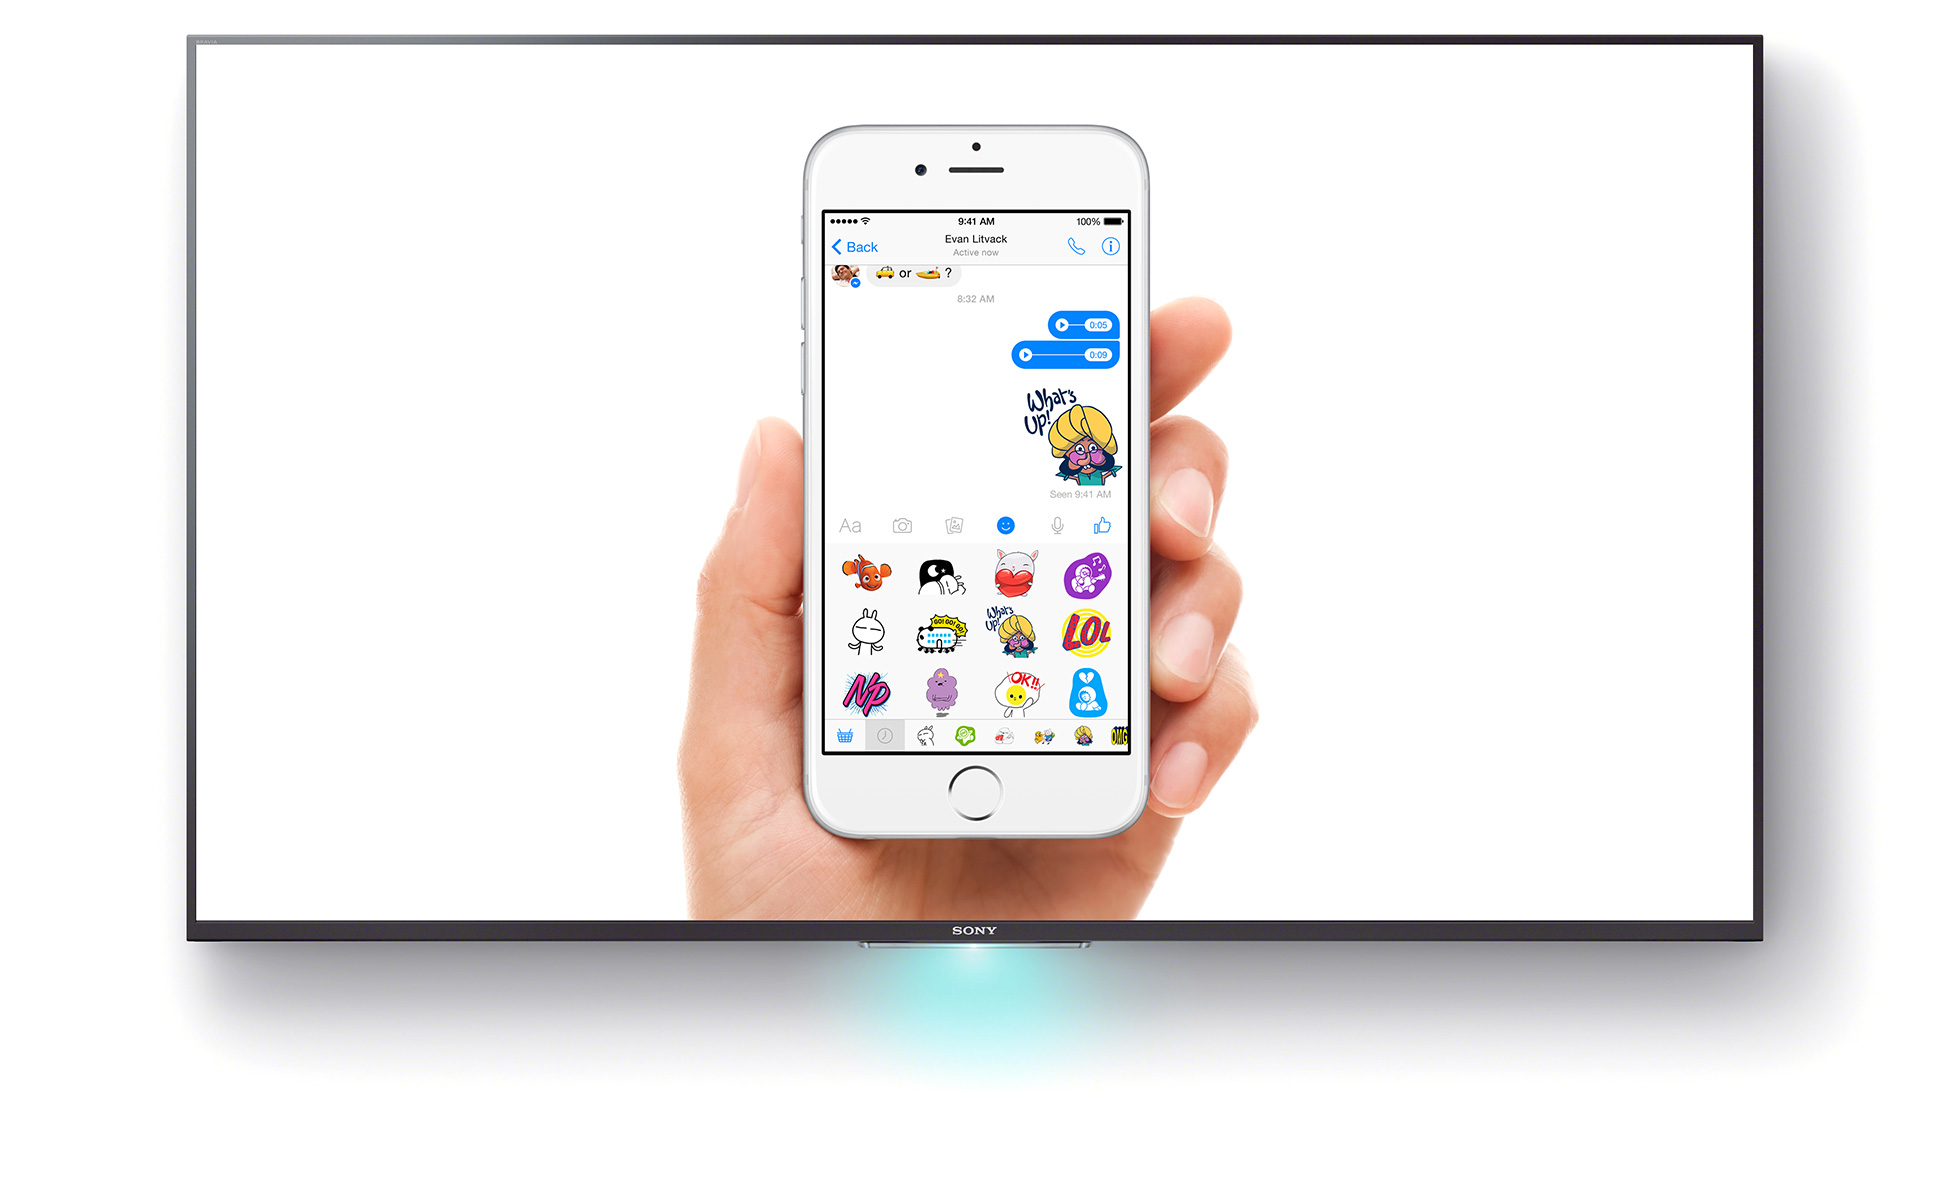
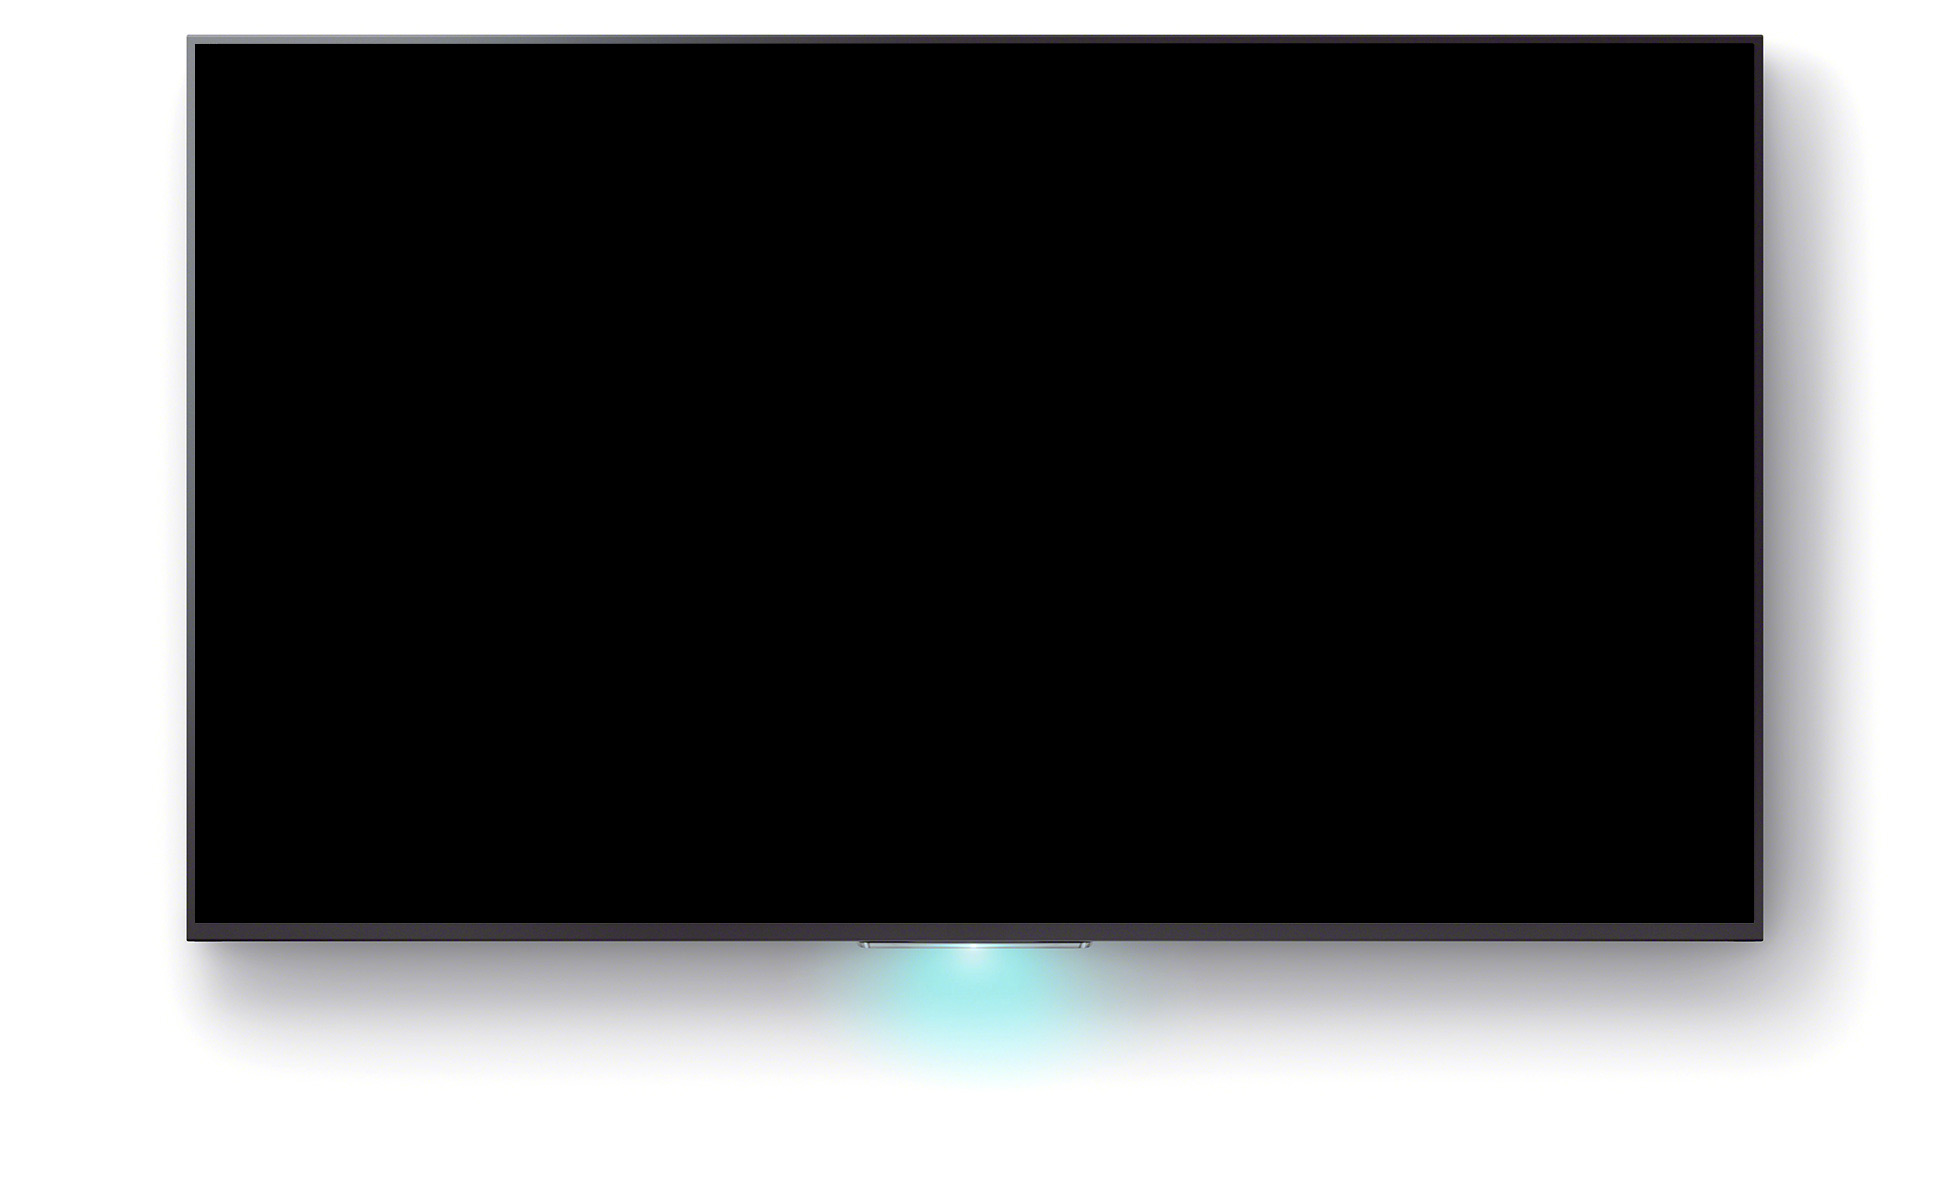
Added lighting to the TV screen and removed Sony branding

diff --git a/_site/public/css/homepage.css b/_site/public/css/homepage.css
@@ -82,8 +82,7 @@
 	overflow: hidden;
 }
 
-#screen .hand {
-	background-image: url('../images/hand.png');
+#screen div {
 	background-size: contain;
 	background-position: center;
 	background-repeat: no-repeat;
@@ -91,40 +90,27 @@
 	height: 100%;
 	position: absolute;
 	top: 0;
+}
+
+#screen .hand {
+	background-image: url('../images/hand.png');
 }
 
 #screen .mockup {
 	background-image: url('../images/messenger.png');
-	background-size: contain;
-	background-position: center;
-	background-repeat: no-repeat;
-	width: 100%;
-	height: 100%;
-	position: absolute;
-	top: 0;
 }
 
 #screen .darkening {
 	background-image: url('../images/darkening.png');
-	background-size: cover;
-	background-position: center;
-	background-repeat: no-repeat;
-	width: 100%;
-	height: 100%;
-	position: absolute;
-	top: 0;
 	opacity: 0;
 }
 
 #screen .phone {
 	background-image: url('../images/iphone.png');
-	background-size: contain;
-	background-position: center;
-	background-repeat: no-repeat;
-	width: 100%;
-	height: 100%;
-	position: absolute;
-	top: 0;
+}
+
+#screen .lighting {
+	background-image: url('../images/tv-lighting.png');
 }
 
 #controller {

diff --git a/public/css/homepage.css b/public/css/homepage.css
@@ -82,8 +82,7 @@
 	overflow: hidden;
 }
 
-#screen .hand {
-	background-image: url('../images/hand.png');
+#screen div {
 	background-size: contain;
 	background-position: center;
 	background-repeat: no-repeat;
@@ -91,40 +90,27 @@
 	height: 100%;
 	position: absolute;
 	top: 0;
+}
+
+#screen .hand {
+	background-image: url('../images/hand.png');
 }
 
 #screen .mockup {
 	background-image: url('../images/messenger.png');
-	background-size: contain;
-	background-position: center;
-	background-repeat: no-repeat;
-	width: 100%;
-	height: 100%;
-	position: absolute;
-	top: 0;
 }
 
 #screen .darkening {
 	background-image: url('../images/darkening.png');
-	background-size: cover;
-	background-position: center;
-	background-repeat: no-repeat;
-	width: 100%;
-	height: 100%;
-	position: absolute;
-	top: 0;
 	opacity: 0;
 }
 
 #screen .phone {
 	background-image: url('../images/iphone.png');
-	background-size: contain;
-	background-position: center;
-	background-repeat: no-repeat;
-	width: 100%;
-	height: 100%;
-	position: absolute;
-	top: 0;
+}
+
+#screen .lighting {
+	background-image: url('../images/tv-lighting.png');
 }
 
 #controller {

diff --git a/index.html b/index.html
@@ -26,6 +26,7 @@ js: /public/js/homepage.js
 				<div class="mockup"></div>
 				<div class="phone"></div>
 				<div class="darkening"></div>
+				<div class="lighting"></div>
 			</div>
 		</div>
 		<div id="controller">

diff --git a/_site/index.html b/_site/index.html
@@ -47,6 +47,7 @@
 				<div class="mockup"></div>
 				<div class="phone"></div>
 				<div class="darkening"></div>
+				<div class="lighting"></div>
 			</div>
 		</div>
 		<div id="controller">
